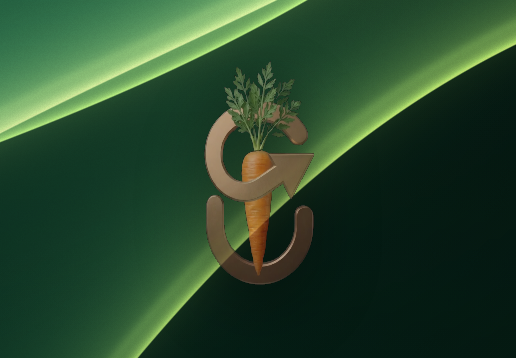
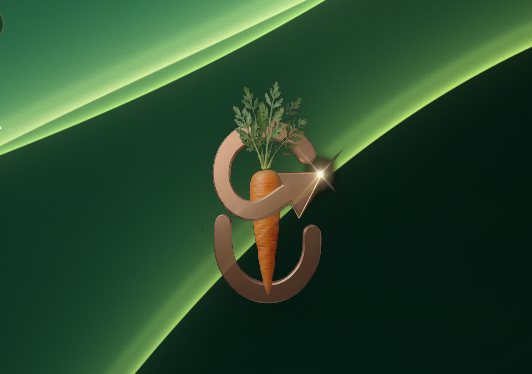
fix: crush near-black plate veil on hero luma key
Raise the black matte floor and power-curve alpha so compressed plate noise does not leave a rectangular dark veil over GlassFold.

diff --git a/src/effects/chroma-key-video.js b/src/effects/chroma-key-video.js
@@ -88,11 +88,10 @@ export function mountChromaKeyVideo(
     float luma = dot(c.rgb, vec3(0.299, 0.587, 0.114));
     float mx = max(c.r, max(c.g, c.b));
     float signal = max(luma, mx);
-    // Pure black → a=0; soft ramp into subject (uSim..uSim+uSoft)
+    // Crush compressed near-black plate hard; soft ramp only into subject
     float a = smoothstep(uSim, uSim + max(uSoft, 0.001), signal);
-    // Extra crush on deep plate + gentle edge feather
-    a *= smoothstep(0.02, 0.14, signal);
-    a = smoothstep(0.0, 0.85, a);
+    a *= smoothstep(uSim * 0.5, uSim + uSoft * 0.55, signal);
+    a = pow(clamp(a, 0.0, 1.0), 1.55);
     o = vec4(c.rgb * a, a);
   }`
     : `#version 300 es
@@ -140,8 +139,8 @@ export function mountChromaKeyVideo(
       float mx=max(c.r,max(c.g,c.b));
       float signal=max(luma,mx);
       float a=smoothstep(uSim,uSim+max(uSoft,.001),signal);
-      a*=smoothstep(.02,.14,signal);
-      a=smoothstep(0.,.85,a); gl_FragColor=vec4(c.rgb*a,a); }`
+      a*=smoothstep(uSim*.5,uSim+uSoft*.55,signal);
+      a=pow(clamp(a,0.,1.),1.55); gl_FragColor=vec4(c.rgb*a,a); }`
       : `precision highp float; uniform sampler2D uTex; uniform float uSim; uniform float uSoft; varying vec2 v;
       void main(){ vec2 uv=vec2(v.x,1.-v.y); vec4 c=texture2D(uTex,uv);
       float luma=dot(c.rgb,vec3(.299,.587,.114));

diff --git a/src/styles/main.css b/src/styles/main.css
@@ -699,14 +699,19 @@ html[dir='ltr'] .hero__content {
   mix-blend-mode: normal;
 }
 
+.hero__brand-float.is-keyed {
+  /* Avoid rectangular plate shadow from residual matte */
+  filter: none;
+}
+
 .hero__brand-float.is-keyed .hero__produce-key {
   display: block;
   position: relative;
   width: 100%;
   height: 100%;
   background: transparent;
-  /* Soft silhouette — shadow follows keyed alpha, not the plate */
-  filter: drop-shadow(0 12px 26px rgba(0, 0, 0, 0.32));
+  /* Soft silhouette follows keyed alpha only */
+  filter: drop-shadow(0 14px 30px rgba(0, 0, 0, 0.38));
 }
 
 

diff --git a/src/main.js b/src/main.js
@@ -191,7 +191,7 @@ function initHeroProduce() {
       video: videoEl,
       poster,
       key: 'black',
-      similarity: 0.04,
+      similarity: 0.09,
       softness: 0.2,
       dprMax: 1.5,
       reduced,
